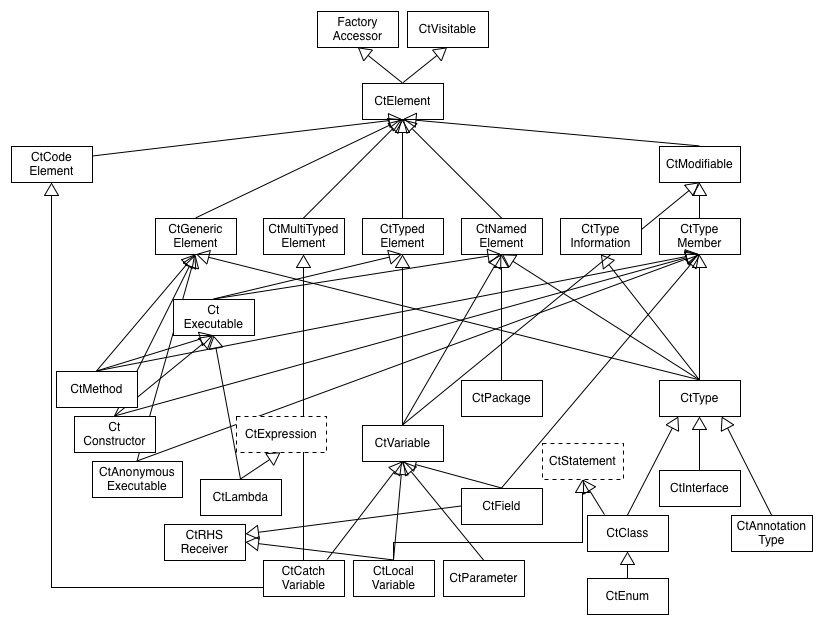
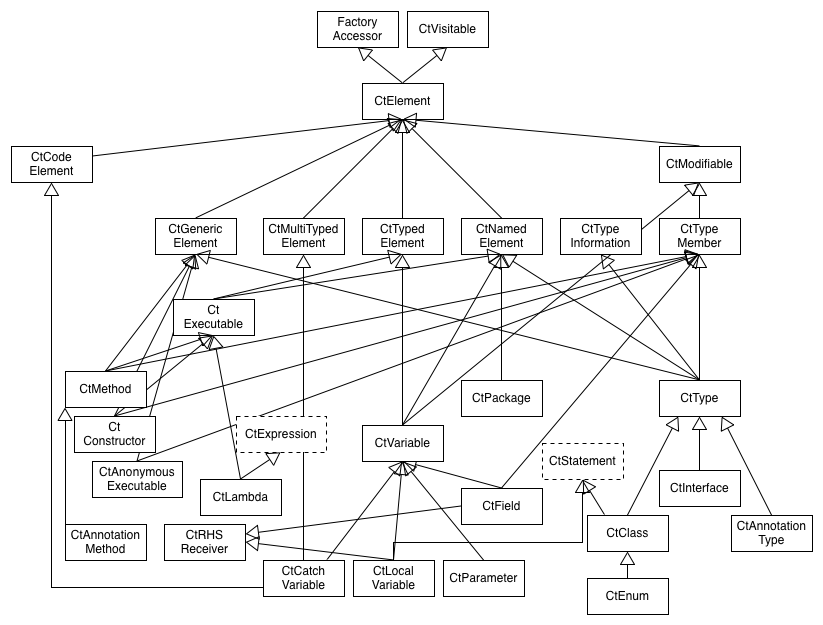
docs(wildcard): Update diagrams and javadoc.

diff --git a/src/main/java/spoon/reflect/reference/CtWildcardReference.java b/src/main/java/spoon/reflect/reference/CtWildcardReference.java
@@ -16,6 +16,9 @@
  */
 package spoon.reflect.reference;
 
+/**
+ * Represents a wildcard in generic type annotations, i.e. the "?" (e.g. the "?" in Collection&lt;?&gt; or Collection&lt;? extends List&gt;).
+ */
 public interface CtWildcardReference extends CtTypeParameterReference {
 	@Override
 	CtWildcardReference clone();
